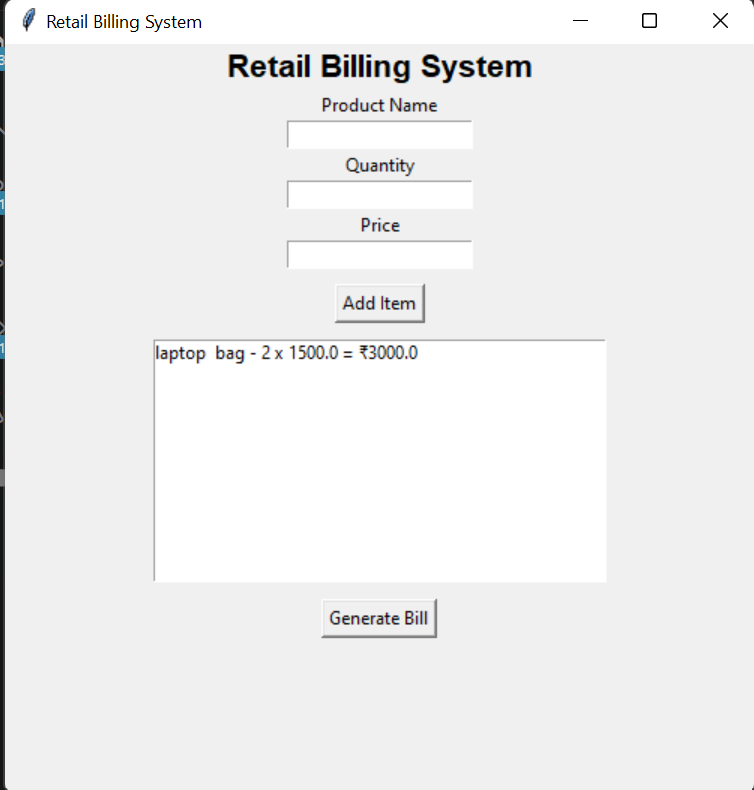
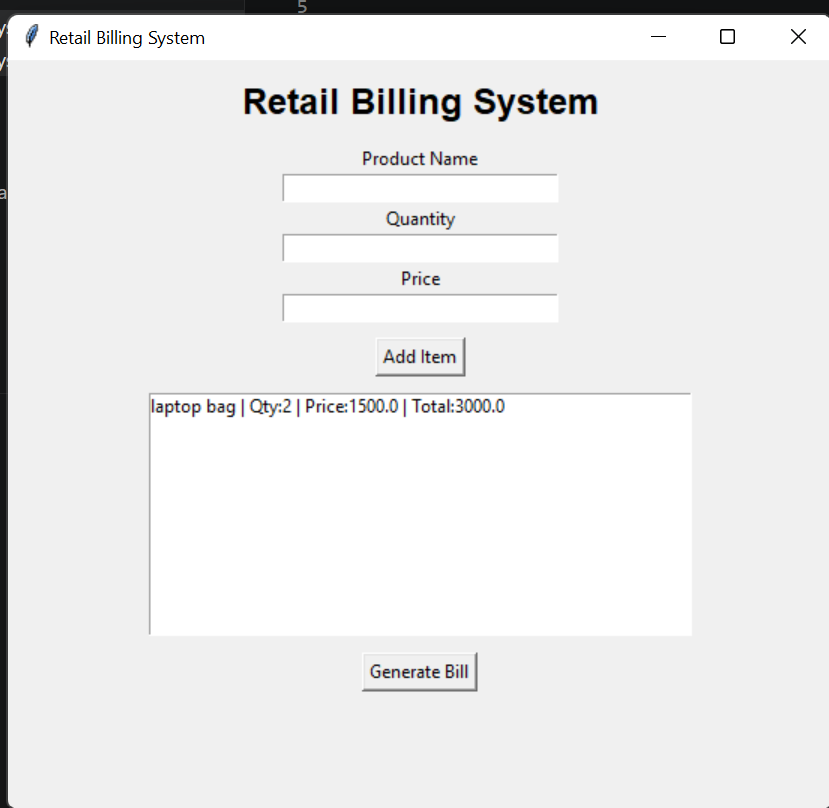
Retail Billing System

diff --git a/Projects/Unit 1/miniproject 4/retail_billing_system.py b/Projects/Unit 1/miniproject 4/retail_billing_system.py
@@ -1,66 +1,87 @@
 import tkinter as tk
+from tkinter import messagebox
 
 subtotal = 0
 
 def add_item():
     global subtotal
 
-    name = product.get()
-    qty = int(quantity.get())
-    price = float(price_entry.get())
+    try:
+        name = product_entry.get()
+        qty = int(qty_entry.get())
+        price = float(price_entry.get())
 
-    total = qty * price
-    subtotal += total
+        total = qty * price
+        subtotal += total
 
-    items.insert(tk.END, f"{name} - {qty} x {price} = ₹{total}")
+        item_list.insert(
+            tk.END,
+            f"{name} | Qty:{qty} | Price:{price} | Total:{total}"
+        )
 
-    product.delete(0, tk.END)
-    quantity.delete(0, tk.END)
-    price_entry.delete(0, tk.END)
+        product_entry.delete(0, tk.END)
+        qty_entry.delete(0, tk.END)
+        price_entry.delete(0, tk.END)
+
+    except ValueError:
+        messagebox.showerror("Error", "Please enter valid values")
 
 def generate_bill():
     discount = subtotal * 0.10 if subtotal > 5000 else 0
-    gst = (subtotal - discount) * 0.18
-    final = subtotal - discount + gst
 
-    result.config(
-        text=f"""
-Subtotal : ₹{subtotal:.2f}
-Discount : ₹{discount:.2f}
-GST : ₹{gst:.2f}
-Final Amount : ₹{final:.2f}
-"""
+    gst = (subtotal - discount) * 0.18
+    final_amount = subtotal - discount + gst
+
+    result_label.config(
+        text=
+        f"Subtotal : ₹{subtotal:.2f}\n"
+        f"Discount : ₹{discount:.2f}\n"
+        f"GST (18%) : ₹{gst:.2f}\n"
+        f"Final Amount : ₹{final_amount:.2f}"
     )
 
 root = tk.Tk()
 root.title("Retail Billing System")
-root.geometry("500x500")
+root.geometry("550x500")
 
-tk.Label(root, text="Retail Billing System",
-         font=("Arial", 16, "bold")).pack()
+tk.Label(
+    root,
+    text="Retail Billing System",
+    font=("Arial", 18, "bold")
+).pack(pady=10)
 
 tk.Label(root, text="Product Name").pack()
-product = tk.Entry(root)
-product.pack()
+product_entry = tk.Entry(root, width=30)
+product_entry.pack()
 
 tk.Label(root, text="Quantity").pack()
-quantity = tk.Entry(root)
-quantity.pack()
+qty_entry = tk.Entry(root, width=30)
+qty_entry.pack()
 
 tk.Label(root, text="Price").pack()
-price_entry = tk.Entry(root)
+price_entry = tk.Entry(root, width=30)
 price_entry.pack()
 
-tk.Button(root, text="Add Item",
-          command=add_item).pack(pady=10)
+tk.Button(
+    root,
+    text="Add Item",
+    command=add_item
+).pack(pady=10)
 
-items = tk.Listbox(root, width=50)
-items.pack()
+item_list = tk.Listbox(root, width=60, height=10)
+item_list.pack()
 
-tk.Button(root, text="Generate Bill",
-          command=generate_bill).pack(pady=10)
+tk.Button(
+    root,
+    text="Generate Bill",
+    command=generate_bill
+).pack(pady=10)
 
-result = tk.Label(root, text="")
-result.pack()
+result_label = tk.Label(
+    root,
+    text="",
+    font=("Arial", 12)
+)
+result_label.pack()
 
 root.mainloop()

diff --git a/Projects/Unit 1/miniproject 4/retail_billing_system.md b/Projects/Unit 1/miniproject 4/retail_billing_system.md
@@ -1,63 +1,148 @@
 # Mini Project 4: Retail Billing System
 
-## Problem Statement
+## 1. Problem Statement
 
-Develop a Python-based billing system that generates invoices, applies discounts, and calculates taxes.
+Develop a Python-based billing system that generates invoices, applies discounts, and calculates taxes. The system provides a graphical user interface (GUI) to enter product details, generate bills, apply discounts, calculate GST, and display the final payable amount.
 
-## Objective
+---
 
-The objective of this project is to automate the billing process in retail stores by generating invoices, applying discounts, calculating GST, and displaying the final payable amount through a graphical user interface.
-
-## Features
-
-- User-friendly GUI using Tkinter
-- Add multiple products
-- Quantity and price entry
-- Automatic subtotal calculation
-- 10% discount for bills above ₹5000
-- GST calculation (18%)
-- Invoice generation
-- Final bill display
-
-## Software Requirements
-
-- Python 3.x
-- Tkinter Library
-
-## Algorithm
+## 2. Algorithm
 
 1. Start the application.
-2. Enter product name, quantity, and price.
+2. Enter Product Name, Quantity, and Price.
 3. Click **Add Item**.
-4. Calculate item total and update subtotal.
-5. Repeat for all products.
-6. Click **Generate Bill**.
-7. Apply 10% discount if subtotal exceeds ₹5000.
-8. Calculate GST at 18%.
-9. Display invoice and final amount.
-10. End.
+4. Calculate Item Total = Quantity × Price.
+5. Add Item Total to Subtotal.
+6. Repeat the process for all products.
+7. Click **Generate Bill**.
+8. If Subtotal > ₹5000, apply a 10% discount.
+9. Calculate GST (18%) on the discounted amount.
+10. Calculate Final Amount.
+11. Display Subtotal, Discount, GST, and Final Amount.
+12. End the application.
 
-## Flowchart
+---
+
+## 3. Flowchart
 
 ```mermaid
 flowchart TD
-    A([Start]) --> B[Enter Product Details]
-    B --> C[Add Item]
-    C --> D[Calculate Total]
-    D --> E[Update Subtotal]
-    E --> F{More Products?}
-    F -->|Yes| B
-    F -->|No| G[Generate Bill]
-    G --> H{Subtotal > 5000?}
-    H -->|Yes| I[Apply 10% Discount]
-    H -->|No| J[No Discount]
-    I --> K[Calculate GST]
-    J --> K
-    K --> L[Display Final Amount]
-    L --> M([End])
+    A([Start]) --> B[Enter Product Name]
+    B --> C[Enter Quantity and Price]
+    C --> D[Click Add Item]
+    D --> E[Calculate Item Total]
+    E --> F[Add Item Total to Subtotal]
+
+    F --> G{More Products?}
+    G -->|Yes| B
+    G -->|No| H[Click Generate Bill]
+
+    H --> I{Subtotal > 5000?}
+    I -->|Yes| J[Apply 10% Discount]
+    I -->|No| K[No Discount]
+
+    J --> L[Calculate GST 18%]
+    K --> L
+
+    L --> M[Calculate Final Amount]
+    M --> N[Display Invoice]
+    N --> O([End])
 ```
 
-## Sample Input
+---
+
+## 4. Python Source Code
+
+```python
+import tkinter as tk
+from tkinter import messagebox
+
+subtotal = 0
+
+def add_item():
+    global subtotal
+
+    try:
+        name = product_entry.get()
+        qty = int(qty_entry.get())
+        price = float(price_entry.get())
+
+        total = qty * price
+        subtotal += total
+
+        item_list.insert(
+            tk.END,
+            f"{name} | Qty:{qty} | Price:{price} | Total:{total}"
+        )
+
+        product_entry.delete(0, tk.END)
+        qty_entry.delete(0, tk.END)
+        price_entry.delete(0, tk.END)
+
+    except ValueError:
+        messagebox.showerror("Error", "Enter valid values")
+
+def generate_bill():
+    discount = subtotal * 0.10 if subtotal > 5000 else 0
+
+    gst = (subtotal - discount) * 0.18
+    final_amount = subtotal - discount + gst
+
+    result_label.config(
+        text=f"""
+Subtotal : ₹{subtotal:.2f}
+Discount : ₹{discount:.2f}
+GST (18%) : ₹{gst:.2f}
+Final Amount : ₹{final_amount:.2f}
+"""
+    )
+
+root = tk.Tk()
+root.title("Retail Billing System")
+root.geometry("550x500")
+
+tk.Label(
+    root,
+    text="Retail Billing System",
+    font=("Arial", 18, "bold")
+).pack(pady=10)
+
+tk.Label(root, text="Product Name").pack()
+product_entry = tk.Entry(root)
+product_entry.pack()
+
+tk.Label(root, text="Quantity").pack()
+qty_entry = tk.Entry(root)
+qty_entry.pack()
+
+tk.Label(root, text="Price").pack()
+price_entry = tk.Entry(root)
+price_entry.pack()
+
+tk.Button(
+    root,
+    text="Add Item",
+    command=add_item
+).pack(pady=10)
+
+item_list = tk.Listbox(root, width=60)
+item_list.pack()
+
+tk.Button(
+    root,
+    text="Generate Bill",
+    command=generate_bill
+).pack(pady=10)
+
+result_label = tk.Label(root, text="")
+result_label.pack()
+
+root.mainloop()
+```
+
+---
+
+## 5. Sample Input
 
 ```text
 Product Name : Laptop Bag
@@ -78,9 +163,17 @@ GST (18%) : ₹874.80
 Final Amount : ₹5734.80
 ```
 
-## Conclusion
+## Calculation
 
-The Retail Billing System provides an efficient way to generate invoices, calculate discounts, and compute taxes automatically using a graphical interface.
+```text
+Laptop Bag = 2 × 1500 = 3000
+Mouse      = 3 × 800 = 2400
+
+Subtotal = 5400
+Discount = 540
+GST = 874.80
+Final Amount = 5734.80
+```
 
 ### screenshot
 ![alt text](image.png)